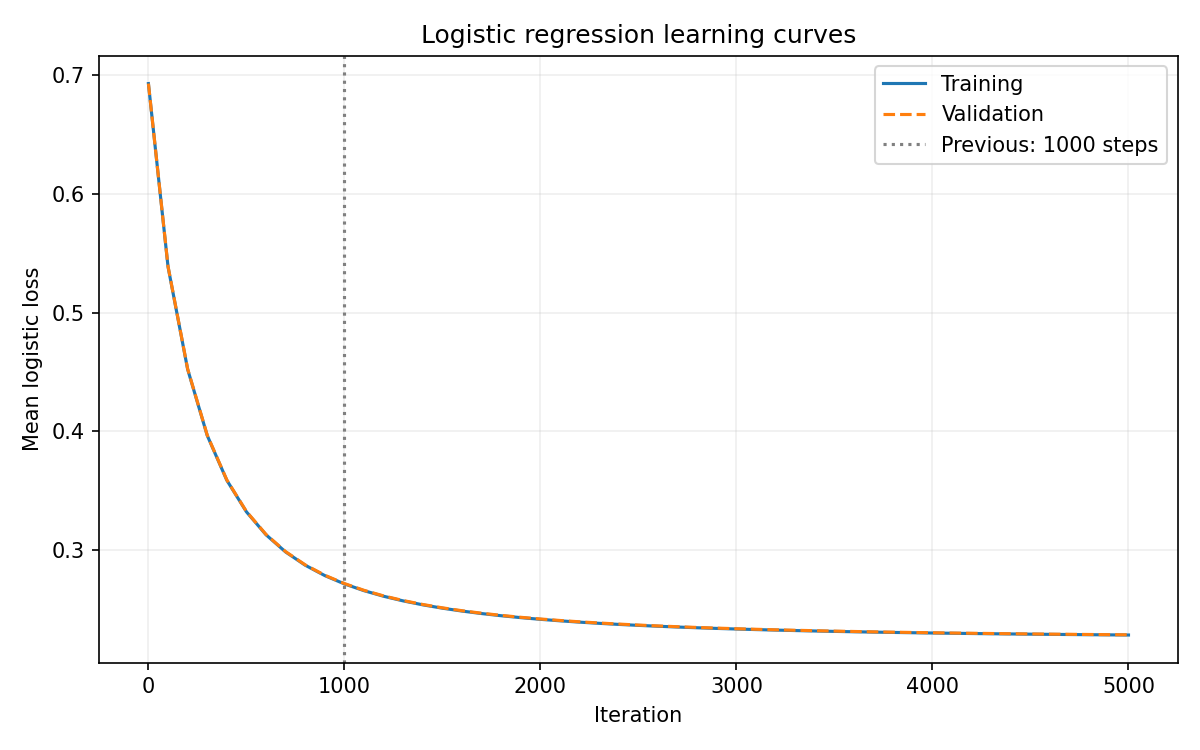
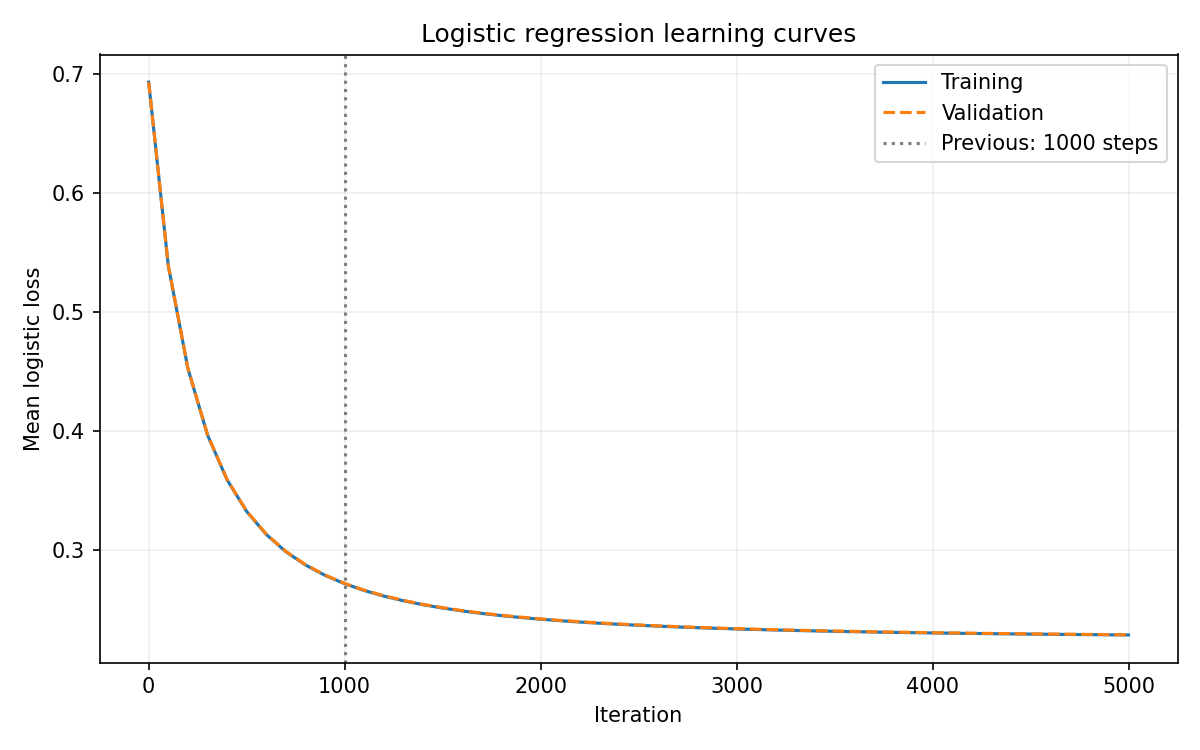
changing treshold

diff --git a/train.py b/train.py
@@ -74,6 +74,78 @@ def evaluate_baseline(y_fit, y_val):
     return metrics
 
 
+def evaluate_thresholds(y_true, probabilities):
+    if not np.isfinite(probabilities).all() or np.any(
+        (probabilities < 0) | (probabilities > 1)
+    ):
+        raise ValueError("Expected finite probabilities between 0 and 1.")
+
+    results = []
+    # Compare 0.01, 0.02, ..., 0.99 using the same probabilities.
+    for percent in range(1, 100):
+        threshold = percent / 100
+        predictions = np.where(probabilities >= threshold, 1, -1)
+        results.append({
+            "threshold": threshold,
+            **classification_metrics(y_true, predictions),
+        })
+
+    return results
+
+
+def save_threshold_results(results):
+    root = Path(__file__).resolve().parent
+    results_dir = root / "results"
+    figures_dir = root / "figures"
+    results_dir.mkdir(exist_ok=True)
+    figures_dir.mkdir(exist_ok=True)
+
+    csv_path = results_dir / "logistic_threshold_comparison.csv"
+    with csv_path.open("w", newline="") as file:
+        writer = csv.DictWriter(file, fieldnames=[
+            "threshold", "tp", "tn", "fp", "fn",
+            "accuracy", "precision", "recall", "f1",
+        ])
+        writer.writeheader()
+        writer.writerows(results)
+
+    default = next(row for row in results if row["threshold"] == 0.5)
+    best = max(results, key=lambda row: row["f1"])
+    thresholds = [row["threshold"] for row in results]
+
+    fig, ax = plt.subplots(figsize=(9, 5))
+    for metric in ["precision", "recall", "f1"]:
+        ax.plot(thresholds, [row[metric] for row in results], label=metric)
+    ax.axvline(0.5, color="gray", linestyle=":", label="Default: 0.50")
+    ax.axvline(
+        best["threshold"], color="tab:green", linestyle="--",
+        label=f"Best tested: {best['threshold']:.2f}",
+    )
+    ax.set_xlim(0, 1)
+    ax.set_ylim(0, 1.05)
+    ax.set_xlabel("Threshold")
+    ax.set_ylabel("Validation score")
+    ax.set_title("Logistic regression threshold comparison")
+    ax.grid(alpha=0.2)
+    ax.legend()
+    fig.tight_layout()
+    plot_path = figures_dir / "logistic_thresholds.png"
+    fig.savefig(plot_path, dpi=150)
+    plt.close(fig)
+
+    print("\nValidation threshold comparison:", flush=True)
+    print("Choice        Threshold  Precision  Recall     F1         Accuracy")
+    for name, row in [("Default", default), ("Best tested", best)]:
+        print(
+            f"{name:<13} {row['threshold']:<10.2f} "
+            f"{row['precision']:<10.4f} {row['recall']:<10.4f} "
+            f"{row['f1']:<10.4f} {row['accuracy']:.4f}",
+            flush=True,
+        )
+    print("Saved threshold comparison:", csv_path, flush=True)
+    print("Saved threshold plot:", plot_path, flush=True)
+
+
 def save_logistic_history(history, comparison):
     root = Path(__file__).resolve().parent
     results_dir = root / "results"
@@ -203,6 +275,10 @@ def train_logistic(
         **val_metrics,
     })
     save_logistic_history(history, comparison)
+
+    # Tune the decision threshold on validation after training is complete.
+    threshold_results = evaluate_thresholds(y_val, val_probabilities)
+    save_threshold_results(threshold_results)
 
     return w, train_loss
 
